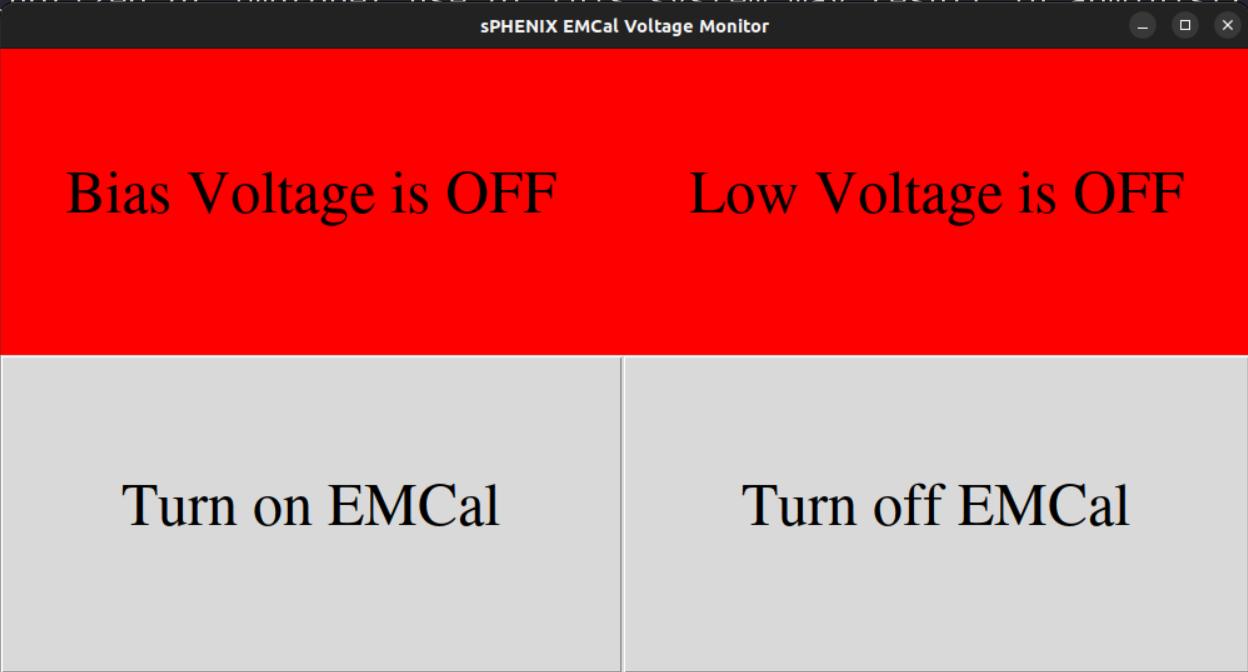
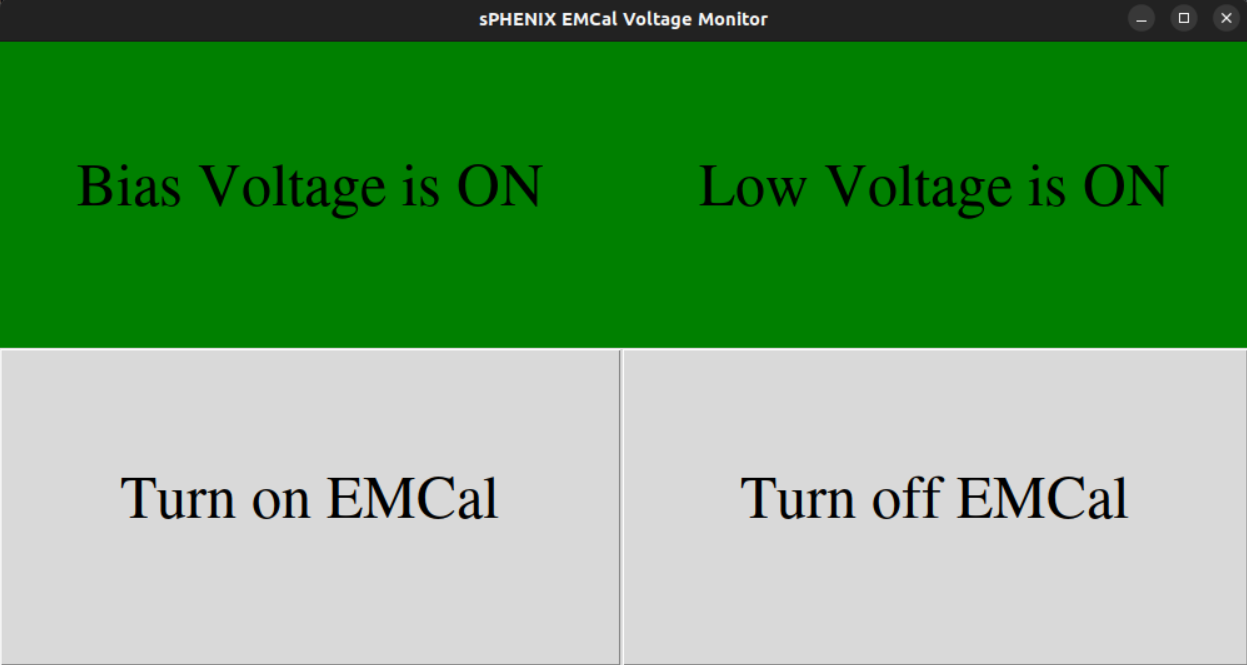
Update Voltage Monitor GUI
- added new status mfor the labels of bias and lv.
- blue and red statuses are for the user to look at the detailed bias or lv gui for accurate status.
- green and grey are the normal statuses when all on or all off respectively.

diff --git a/emcal_voltage.py b/emcal_voltage.py
@@ -30,37 +30,42 @@ user      = args.user
 threshold = args.threshold
 
 def get_bias_status():
-    with psycopg2.connect(f"host='{dbhost}' dbname='{dbname}' user='{user}'") as conn:
-        sql = f'''SELECT
-                    readtime,
-                    sector,
-                    ib,
-                    -vmeas as vmeas
-                FROM
-                emcal_mpodlog
-                WHERE readtime > (CURRENT_TIMESTAMP-INTERVAL '00:02:00')
-                and (abs(vmeas) < {threshold})
-                and ((sector != 50 or ib != 1) and (sector != 4 or ib != 1))
-                ORDER BY readtime desc, sector, ib'''
+    df = pd.DataFrame()
+    try:
+        with psycopg2.connect(f"host='{dbhost}' dbname='{dbname}' user='{user}'") as conn:
+            sql = f'''SELECT
+                        -vmeas as vmeas
+                    FROM
+                    emcal_mpodlog
+                    WHERE readtime > (CURRENT_TIMESTAMP-INTERVAL '00:02:00')
+                    and ((sector != 50 or ib != 1) and (sector != 4 or ib != 1))
+                    ORDER BY readtime desc, sector, ib'''
 
-        return pd.read_sql_query(sql, conn)
+            df = pd.read_sql_query(sql, conn)
+    except:
+        print(f'Failed to connect to {dbhost}, {dbname}')
+
+    return df
 
 def get_lv_status():
-    with psycopg2.connect(f"host='{dbhost}' dbname='{dbname}' user='{user}'") as conn:
-        sql = '''SELECT
-                    readtime,
-                    sector,
-                    ib,
-                    vp,
-                    vn
-                FROM
-                emcal_iface
-                WHERE readtime > (CURRENT_TIMESTAMP-INTERVAL '00:02:00')
-                and ((vp < 5 or vp >= 7) or (vn < -7 or vn >= -5))
-                and ((sector != 50 or ib != 1) and (sector != 4 or ib != 1))
-                ORDER BY readtime desc, sector, ib'''
+    df = pd.DataFrame()
+    try:
+        with psycopg2.connect(f"host='{dbhost}' dbname='{dbname}' user='{user}'") as conn:
+            sql = '''SELECT
+                        vp,
+                        vn
+                    FROM
+                    emcal_iface
+                    WHERE readtime > (CURRENT_TIMESTAMP-INTERVAL '00:02:00')
+                    and ((sector != 50 or ib != 1) and (sector != 4 or ib != 1))
+                    ORDER BY readtime desc, sector, ib'''
 
-        return pd.read_sql_query(sql, conn)
+            df = pd.read_sql_query(sql, conn)
+
+    except:
+        print(f'Failed to connect to {dbhost}, {dbname}')
+
+    return df
 
 def update_status(bias_label, lv_label, delay):
     while(1):
@@ -68,31 +73,51 @@ def update_status(bias_label, lv_label, delay):
         df_bias = get_bias_status()
 
         if(df_bias.empty):
-            bias_label.config(text='Bias Voltage is ON', background='green')
+                bias_label.config(text='Bias Voltage \n No DB Connection \n Check Bias GUI', background='blue')
         else:
-            bias_label.config(text='Bias Voltage is OFF', background='red')
-            print(df_bias)
+            off_counts = (df_bias['vmeas'].abs() < threshold).sum()
+            total      = df_bias.index.size
+
+            # no ib is under the threshold for being off
+            if(off_counts == 0):
+                bias_label.config(text='Bias Voltage is ON', background='green')
+
+            # a fraction of the number of ibs are in the threshold for being off
+            elif(off_counts < total):
+                bias_label.config(text=f'Bias Voltage \n {off_counts}/{total} OFF \n Check Bias GUI', background='red')
+
+            else:
+                bias_label.config(text='Bias Voltage is OFF', background='grey')
 
         # update lv status
         df_lv = get_lv_status()
 
         if(df_lv.empty):
-            lv_label.config(text='Low Voltage is ON', background='green')
+            lv_label.config(text='Low Voltage \n No DB Connection \n Check Low Voltage GUI', background='blue')
         else:
-            lv_label.config(text='Low Voltage is OFF', background='red')
-            print(df_lv)
+            off_counts = ((df_lv['vp'] < 5) | (df_lv['vp'] >= 7) | (df_lv['vn'] < -7) | (df_lv['vn'] >= -5)).sum()
+            total      = df_lv.index.size
+
+            # no ib is under the threshold for being off
+            if(off_counts == 0):
+                lv_label.config(text='Low Voltage is ON', background='green')
+
+            # a fraction of the number of ibs are in the threshold for being off
+            elif(off_counts < total):
+                lv_label.config(text=f'Low Voltage \n {off_counts}/{total} OFF \n Check Low Voltage GUI', background='red')
+
+            else:
+                lv_label.config(text='Low Voltage is OFF', background='grey')
 
         threading.Event().wait(delay)
 
 # call script to turn all voltage ON
 def all_voltage_on():
     os.system('ssh phnxrc@opc0 "bash /home/phnxrc/haggerty/emcal/offandon/emcalon"')
-    # os.system('ssh phnxrc@opc0 "echo on"')
 
 # call script to turn all voltage OFF
 def all_voltage_off():
     os.system('ssh phnxrc@opc0 "bash /home/phnxrc/haggerty/emcal/offandon/emcaloff"')
-    # os.system('ssh phnxrc@opc0 "echo off"')
 
 if __name__ == '__main__':
     delay     = args.delay
